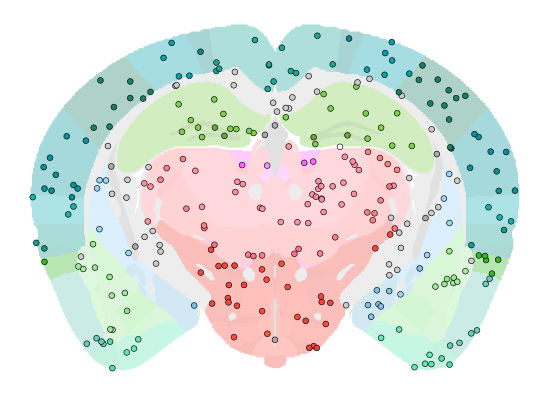
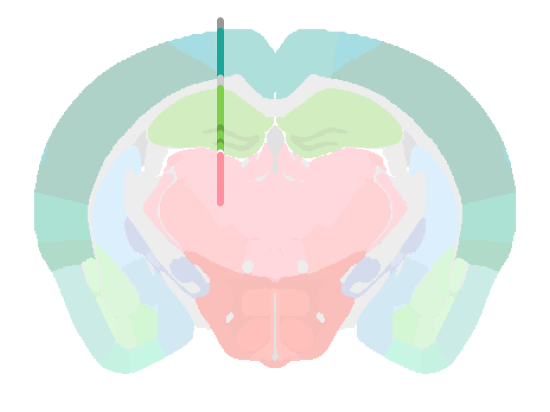
Show the tutorial's probe on the home page points card
The card 1 image now draws the Get started tutorial's stand-in probe,
each channel coloured by its region and the channels above the brain in
grey, instead of points scattered over a slice.

diff --git a/docs/figures/make_figures.py b/docs/figures/make_figures.py
@@ -28,7 +28,7 @@ OUTLINE_COLOURS = {'AllenAtlas': 'k', 'NeedlesAtlas': 'tab:blue', 'MRITorontoAtl
 # Slices with no missing voxels: Gfap's raw volume is left/right asymmetric here, and Calb1's
 # overall level changes in the processed volume.
 AGEA_EXAMPLES = (('Gfap', -0.0016), ('Calb1', -0.0004))
-POINTS_AP = -0.002  # m; the coronal slice the points card is drawn on
+POINTS_AP = -0.0015  # m; the coronal plane of the points card's probe, as in the tutorial
 PROBE_AP = -0.002  # m; the coronal plane the probe track lies in
 ATLAS_FACTORIES = {'AllenAtlas': AllenAtlas, 'NeedlesAtlas': NeedlesAtlas,
                    'MRITorontoAtlas': MRITorontoAtlas}
@@ -264,36 +264,41 @@ def landing_region_values(atlas: AllenAtlas) -> plt.Figure:
     return fig
 
 
-def landing_points(atlas: AllenAtlas, n_points: int = 300) -> plt.Figure:
+def landing_points(atlas: AllenAtlas, tip_ml: float = -0.0012, tip_dv: float = -0.0036,
+                   n_channels: int = 384, length: float = 0.00384) -> plt.Figure:
     """
-    Random points on one coronal slice, each dot coloured by the region it falls in.
+    The tutorial's stand-in probe on a coronal slice, each channel coloured by its region.
 
-    The points are synthetic: drawn uniformly over the slice with a fixed seed, keeping only those
-    inside the brain. The image illustrates looking up the region of each point, not a recording.
+    A vertical probe at ``POINTS_AP`` with ``n_channels`` evenly spaced over ``length`` metres
+    upward from the tip, as in the "From coordinates to a brain figure" tutorial. Its top channels
+    sit above the brain and are drawn grey. The data are synthetic: the image illustrates looking
+    up the region of each point, not a recording.
 
     Parameters
     ----------
     atlas : AllenAtlas
         Atlas used both for the region lookup and the annotation slice.
-    n_points : int
-        Number of points drawn, all inside the brain.
+    tip_ml, tip_dv : float
+        Tip position in metres from bregma.
+    n_channels : int
+        Number of channels.
+    length : float
+        Distance from the tip to the top channel, in metres.
 
     Returns
     -------
     matplotlib.figure.Figure
         One axis in micrometres, ML on x and DV on y, on the shared landing canvas.
     """
-    rng = np.random.default_rng(0)
-    n_candidates = 3 * n_points  # about half the slice is outside the brain
-    xyz = np.c_[rng.uniform(*atlas.bc.xlim, n_candidates), np.full(n_candidates, POINTS_AP),
-                rng.uniform(*np.sort(atlas.bc.zlim), n_candidates)]
+    dv = np.linspace(tip_dv + length, tip_dv, n_channels)
+    xyz = np.c_[np.full(n_channels, tip_ml), np.full(n_channels, POINTS_AP), dv]
     ids = atlas.get_labels(xyz)
-    xyz, ids = xyz[ids != 0][:n_points], ids[ids != 0][:n_points]
+    colours = atlas.regions.get(ids)['rgb'] / 255
+    colours[ids == 0] = 0.6  # channels above the brain, in grey
     fig, axs = _landing_axes()
     atlas.plot_cslice(POINTS_AP, volume='annotation', ax=axs[0], alpha=0.35)
     _clear_void(axs[0], atlas, POINTS_AP)
-    axs[0].scatter(xyz[:, 0] * 1e6, xyz[:, 2] * 1e6, c=atlas.regions.get(ids)['rgb'] / 255, s=14,
-                   edgecolors='k', linewidths=0.4)
+    axs[0].scatter(xyz[:, 0] * 1e6, xyz[:, 2] * 1e6, c=colours, s=10)
     return fig
 
 
